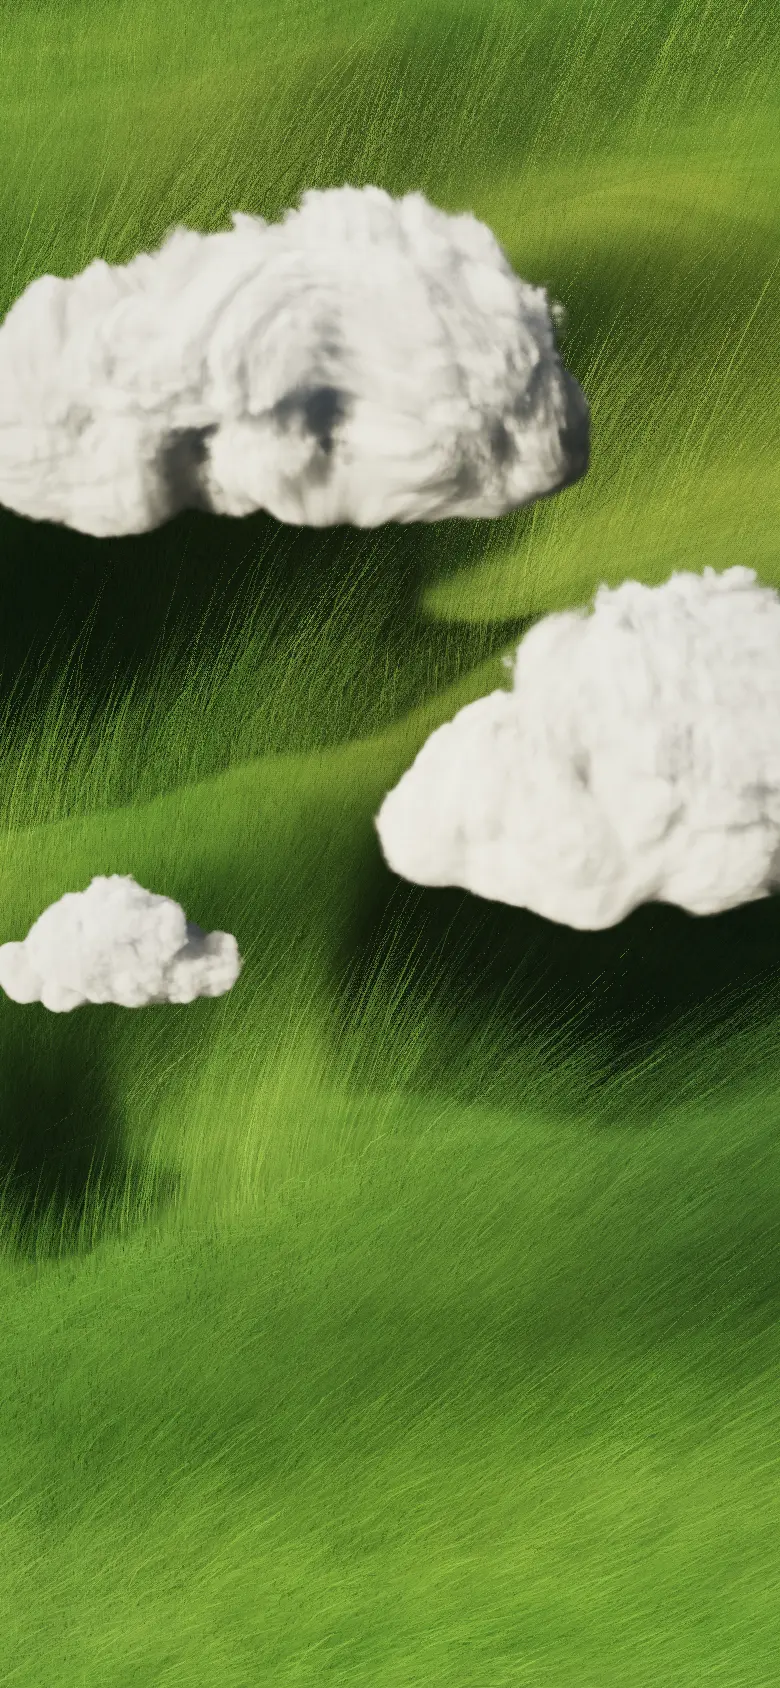
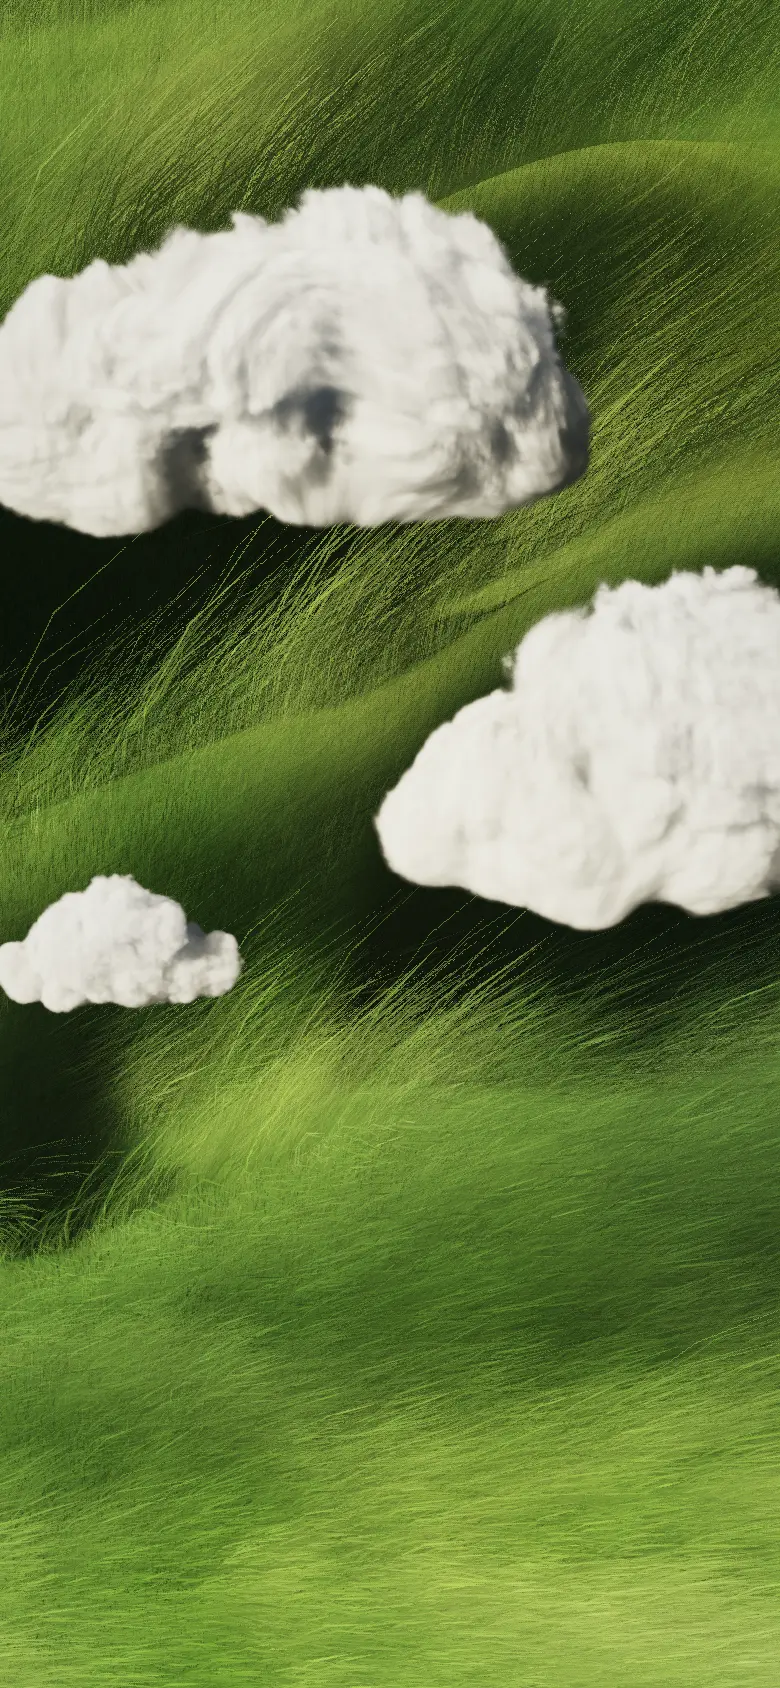
feat: portfolio grass lies across the swells, deeper troughs
Combed grass lies flatter and follows a prevailing breeze toward the
viewer's right, as in the reference, instead of standing up along the
contours; more tone between locks and taller swells. Stills refreshed.

diff --git a/src/scene/swirl.ts b/src/scene/swirl.ts
@@ -88,8 +88,9 @@ export function makeFlow(
   const wander: Noise2 = makeNoise(seed + 511);
   const lanes: Noise2 = makeNoise(seed + 512);
   const tilt: Noise2 = makeNoise(seed + 513);
-  const gx = 0.94;
-  const gz = 0.34;
+  // combed grass is blown toward the viewer's right and a little downhill, across the crests
+  const gx = combed ? 0.8 : 0.94;
+  const gz = combed ? 0.6 : 0.34;
   return (x, z) => {
     const e = 0.8;
     const dx = (height(x + e, z) - height(x - e, z)) / (2 * e);
@@ -103,7 +104,7 @@ export function makeFlow(
       cz = -cz;
     }
     const cl = Math.hypot(cx, cz) || 1;
-    const follow = smoothstep(0.04, 0.4, slope);
+    const follow = smoothstep(0.04, 0.4, slope) * (combed ? 0.35 : 1);
     // the wave fronts facing the viewer (height falling toward +z) carry long grass that spills over the edge;
     // crests and backs stay short and fine
     // only the steepest band of each front: fronts face the camera, so they fill much of the frame
@@ -127,7 +128,7 @@ export function makeFlow(
     if (combed) {
       // Seen from higher up, every blade lies over along the land, so the whole surface reads as
       // combed silk: one length, gentle lanes of light, and only a little more lift in the hollows.
-      const lean = 0.95 + 0.35 * fbm(tilt, x * 0.08, z * 0.08, 2) + 0.35 * follow;
+      const lean = 1.4 + 0.3 * fbm(tilt, x * 0.08, z * 0.08, 2) + 0.35 * follow;
       return { x: fx, z: fz, lean, streak: 0.78 + 0.42 * smoothstep(-0.4, 0.4, lane), length: 1 };
     }
     const streak = 0.84 + (0.32 + 0.2 * face) * smoothstep(-0.35, 0.35, lane);

diff --git a/src/grass/tufts.ts b/src/grass/tufts.ts
@@ -182,7 +182,7 @@ export function buildGrass(terrain: Terrain, paint: Painting, rays: ScreenRays, 
     const clumped = !!long && long.troughs !== undefined;
     // combed grass gathers into locks: each tuft lifts, reaches and catches light a little differently,
     // which is what gives the surface its volume (drawn only when combed, so other scenes are unchanged)
-    const lock = long?.combed ? { lean: mix(0.7, 1.35, rng()), length: mix(0.8, 1.25, rng()), tone: 1 + (rng() - 0.5) * 0.36 } : null;
+    const lock = long?.combed ? { lean: mix(0.7, 1.35, rng()), length: mix(0.8, 1.25, rng()), tone: 1 + (rng() - 0.5) * 0.55 } : null;
 
 
     for (let k = 0; k < STRANDS_PER_TUFT; k++) {

diff --git a/src/scene/profiles.ts b/src/scene/profiles.ts
@@ -177,7 +177,7 @@ export const PORTFOLIO: SceneProfile = {
   haze: { color: [0.5, 0.6, 0.46], near: 50, far: 120, amount: 0.12 },
   // finer and denser than Sunlit: the reference reads as silk from a distance
   grass: { ...SUNLIT.grass, sizeScale: 0.95, density: 1.4 },
-  long: { ...SUNLIT.long!, length: 9, width: 0.45, combed: true },
+  long: { ...SUNLIT.long!, length: 9, width: 0.55, troughs: 0.66, silver: 0.3, combed: true },
   canopy: 0.4,
   hover: { gain: 0.45 },
   // olive rather than lime: the reference's greens sit only a little above their reds, with real blue in them

diff --git a/src/scene/portfolio.ts b/src/scene/portfolio.ts
@@ -25,7 +25,7 @@ export function portfolioHeight(n: (x: number, y: number) => number, x: number, 
   const swell = f < 0.66 ? smoothstep(0, 0.66, f) : smoothstep(1, 0.66, f);
   // each ridge swells and subsides along its length
   const along = 0.45 + 0.8 * smoothstep(-0.3, 0.3, fbm(n, x * 0.04 + 23, Math.floor(phase) * 2.7, 2));
-  let h = climb + build * 4 * along * swell;
+  let h = climb + build * 5.4 * along * swell;
   h += 0.8 * build * fbm(n, x * 0.02 + 9, z * 0.028, 2);
   return h;
 }

diff --git a/PROGRESS.md b/PROGRESS.md
@@ -187,9 +187,15 @@ Add `bare` to see the land alone.
   order, no-WebGL fallback, reduced motion, context loss and restore, phone layout). Meadow, Hills and Sunlit snapshots
   are unchanged. Production build passes.
 
+### Grass pass (milestone 3, second round)
+- The target's grass runs right and a little downhill, across the crests. Contour-following made our strands stand
+  up into steep diagonal strokes. Combed grass now lies flatter (lean about 1.4) and follows a prevailing breeze
+  toward the viewer's right, with contour-following at a third.
+- The locks vary more in tone, with deeper troughs and brighter crests. The swells are taller (5.4), so the troughs read
+  through the longer grass.
+- Mean regional luminance gap to the target went from 21.6 to 10.7 (`scripts/regions.mjs`).
+
 ### Remaining visual differences (largest first)
-1. Grass: at desktop sizes it reads as fine velvet. The target's long, curved locks catch the light more, with visible
-   strands and deeper gaps.
-2. Clouds: woolly and a little boxy beside the target's crisp cauliflower heads and wispy tails.
-3. The target's glass has a slightly organic, liquid edge with bright blobs; ours is a clean rounded rectangle.
-4. The small white wildflowers at the lower left are not there.
+1. Clouds: woolly and a little boxy beside the target's crisp cauliflower heads and wispy tails.
+2. The target's glass has a slightly organic, liquid edge with bright blobs; ours is a clean rounded rectangle.
+3. The small white wildflowers at the lower left are not there.
